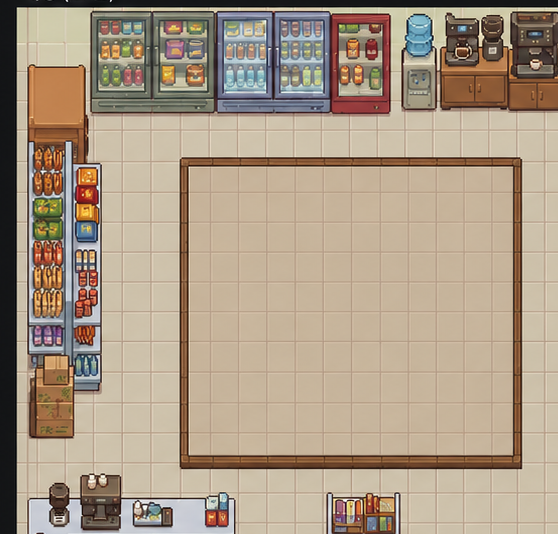
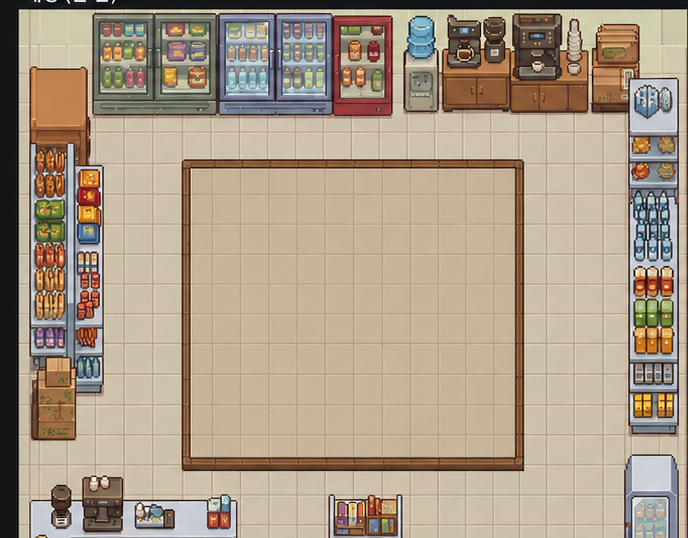
배경 중앙정렬 + HUD 비율유지 + 힌트 범례 모달 추가
- store_bg 전체 방으로 재크롭(오른쪽 냉장고 포함) → 플레이영역 중앙정렬
- HUD 명패 비율 유지(찌그러짐 해결), 3등분 균등
- hint_panel/btn_close 추출 → ?버튼으로 여닫는 범례 모달
- 플레이 프레임 좌표 재측정(189,167,515,457)

https://claude.ai/code/session_0111YUZQqwRvMGsnxcS6qdpi

diff --git a/tools/preview_store_bg.py b/tools/preview_store_bg.py
@@ -1,5 +1,5 @@
 #!/usr/bin/env python3
-"""달님 '배경(한 판)' + 32x32 타일 + 장애물 + HUD 명패 + 캐릭터 — 정렬 교정판."""
+"""달님 에셋 통합: 중앙정렬 배경 + 비율유지 HUD + 정렬 타일 + 장애물 + 캐릭터 + 힌트 범례 모달."""
 import os
 from PIL import Image, ImageDraw
 A=os.path.join(os.path.dirname(__file__),"..","assets")
@@ -7,6 +7,7 @@ L=lambda n: Image.open(os.path.join(A,n)).convert("RGBA")
 bg=L("store_bg.png"); char=L("char_player.png")
 score=L("hud_score.png"); stage=L("hud_stage.png"); timer=L("hud_timer.png")
 plant=L("obstacle_plant.png"); boxes=L("obstacle_boxes.png")
+hint=L("hint_panel.png"); close=L("btn_close.png")
 TILES={0:L("tile_clean.png"),1:L("tile_d1.png"),2:L("tile_d2.png"),
        3:L("tile_d3.png"),4:L("tile_d4.png"),5:L("tile_d5.png")}
 
@@ -15,21 +16,21 @@ W=bg.width; H=HUD+bg.height
 img=Image.new("RGBA",(W,H),(0,0,0,255)); d=ImageDraw.Draw(img)
 img.alpha_composite(bg,(0,HUD))
 
-# === HUD 바: 명패 박스 크기 통일 + 3등분 균등 배치 ===
+# === HUD 바: 비율 유지(찌그러짐 X), 3등분 균등 ===
 d.rectangle((0,0,W,HUD),fill=(214,198,170,255))
 d.rectangle((0,HUD-3,W,HUD),fill=(150,120,86,255))
-BW,BH=150,42; ty=(HUD-BH)//2          # 세 박스 동일 크기
-def place_center(im,cx): img.alpha_composite(im.resize((BW,BH),Image.LANCZOS),(int(cx-BW/2),ty))
+ph=38; ty=(HUD-ph)//2
+def Wof(im): return int(im.width*ph/im.height)
+def place_center(im,cx): img.alpha_composite(im.resize((Wof(im),ph),Image.LANCZOS),(int(cx-Wof(im)/2),ty))
 third=W/3
 place_center(score, third*0.5)
 place_center(stage, third*1.5)
 place_center(timer, third*2.5)
 
-# === 플레이 영역 (몰딩 안쪽, 픽셀검출 좌표) ===
-gx0,gy0,gx1,gy1=187,160,514,455
+# === 플레이 영역(중앙정렬 배경의 몰딩 안쪽) ===
+gx0,gy0,gx1,gy1=189,167,515,457
 cols=rows=5
 cw=(gx1-gx0)/cols; ch=(gy1-gy0)/rows
-# 레이아웃: O=장애물 화분, B=박스, 숫자=더러움, .=깨끗
 layout=[
  [3,1,0,2,5],
  [1,0,'B',0,2],
@@ -40,17 +41,13 @@ layout=[
 for r in range(rows):
     for c in range(cols):
         x=gx0+c*cw; y=HUD+gy0+r*ch
-        v=layout[r][c]
-        lvl=v if isinstance(v,int) else 0   # 장애물 칸 바닥은 깨끗 타일
-        # 모든 칸에 타일 배치(기본 타일 포함)
+        v=layout[r][c]; lvl=v if isinstance(v,int) else 0
         img.alpha_composite(TILES[lvl].resize((int(cw)+1,int(ch)+1),Image.LANCZOS),(int(x),int(y)))
-# 장애물(셀 위에 얹기, 발밑 정렬)
-def put_obstacle(im,r,c,scale=1.15):
+def put_obstacle(im,r,c,scale):
     x=gx0+c*cw; y=HUD+gy0+r*ch
     ih=int(ch*scale); iw=int(im.width*ih/im.height)
-    px=int(x+cw/2-iw/2); py=int(y+ch-ih+ch*0.05)
     d.ellipse((x+cw/2-cw*0.32,y+ch-7-ch*0.1,x+cw/2+cw*0.32,y+ch-7+ch*0.1),fill=(0,0,0,55))
-    img.alpha_composite(im.resize((iw,ih),Image.LANCZOS),(px,py))
+    img.alpha_composite(im.resize((iw,ih),Image.LANCZOS),(int(x+cw/2-iw/2),int(y+ch-ih+ch*0.05)))
 for r in range(rows):
     for c in range(cols):
         if layout[r][c]=='O': put_obstacle(plant,r,c,1.4)
@@ -63,5 +60,26 @@ cxp=gx0+(pc+0.5)*cw; foot=HUD+gy0+(pr+1)*ch
 d.ellipse((cxp-cw*0.32,foot-7-ch*0.1,cxp+cw*0.32,foot-7+ch*0.1),fill=(0,0,0,55))
 img.alpha_composite(char.resize((cwd,chh),Image.LANCZOS),(int(cxp-cwd/2),int(foot-chh+4)))
 
-img.convert("RGB").save(os.path.join(os.path.dirname(__file__),"_store_bg.png"))
-print("saved", (W,H))
+# === ? 버튼(범례 열기) — 보드 하단 중앙 ===
+def wood_btn(cx,cy,w,h,txt):
+    d.rounded_rectangle((cx-w/2,cy-h/2,cx+w/2,cy+h/2),6,fill=(222,206,178),outline=(120,92,66),width=3)
+    d.text((cx-4,cy-7),txt,fill=(120,80,50))
+wood_btn(W/2, HUD+gy1+18, 30,26, "?")
+
+def render(save_name, show_hint):
+    base=img.copy(); dd=ImageDraw.Draw(base)
+    if show_hint:
+        # 모달 백드롭
+        ov=Image.new("RGBA",(W,H),(30,20,14,120)); base.alpha_composite(ov)
+        # 범례 패널(하단 중앙)
+        pw=int(W*0.82); ph2=int(hint.height*pw/hint.width)
+        px=(W-pw)//2; py=H-ph2-70
+        base.alpha_composite(hint.resize((pw,ph2),Image.LANCZOS),(px,py))
+        # Close 버튼
+        cw2=int(W*0.22); ch2=int(close.height*cw2/close.width)
+        base.alpha_composite(close.resize((cw2,ch2),Image.LANCZOS),((W-cw2)//2, py+ph2+10))
+    base.convert("RGB").save(os.path.join(os.path.dirname(__file__),save_name))
+    print("saved",save_name)
+
+render("_store_bg.png", False)        # 평소(? 버튼)
+render("_store_hint.png", True)       # 범례 열림
